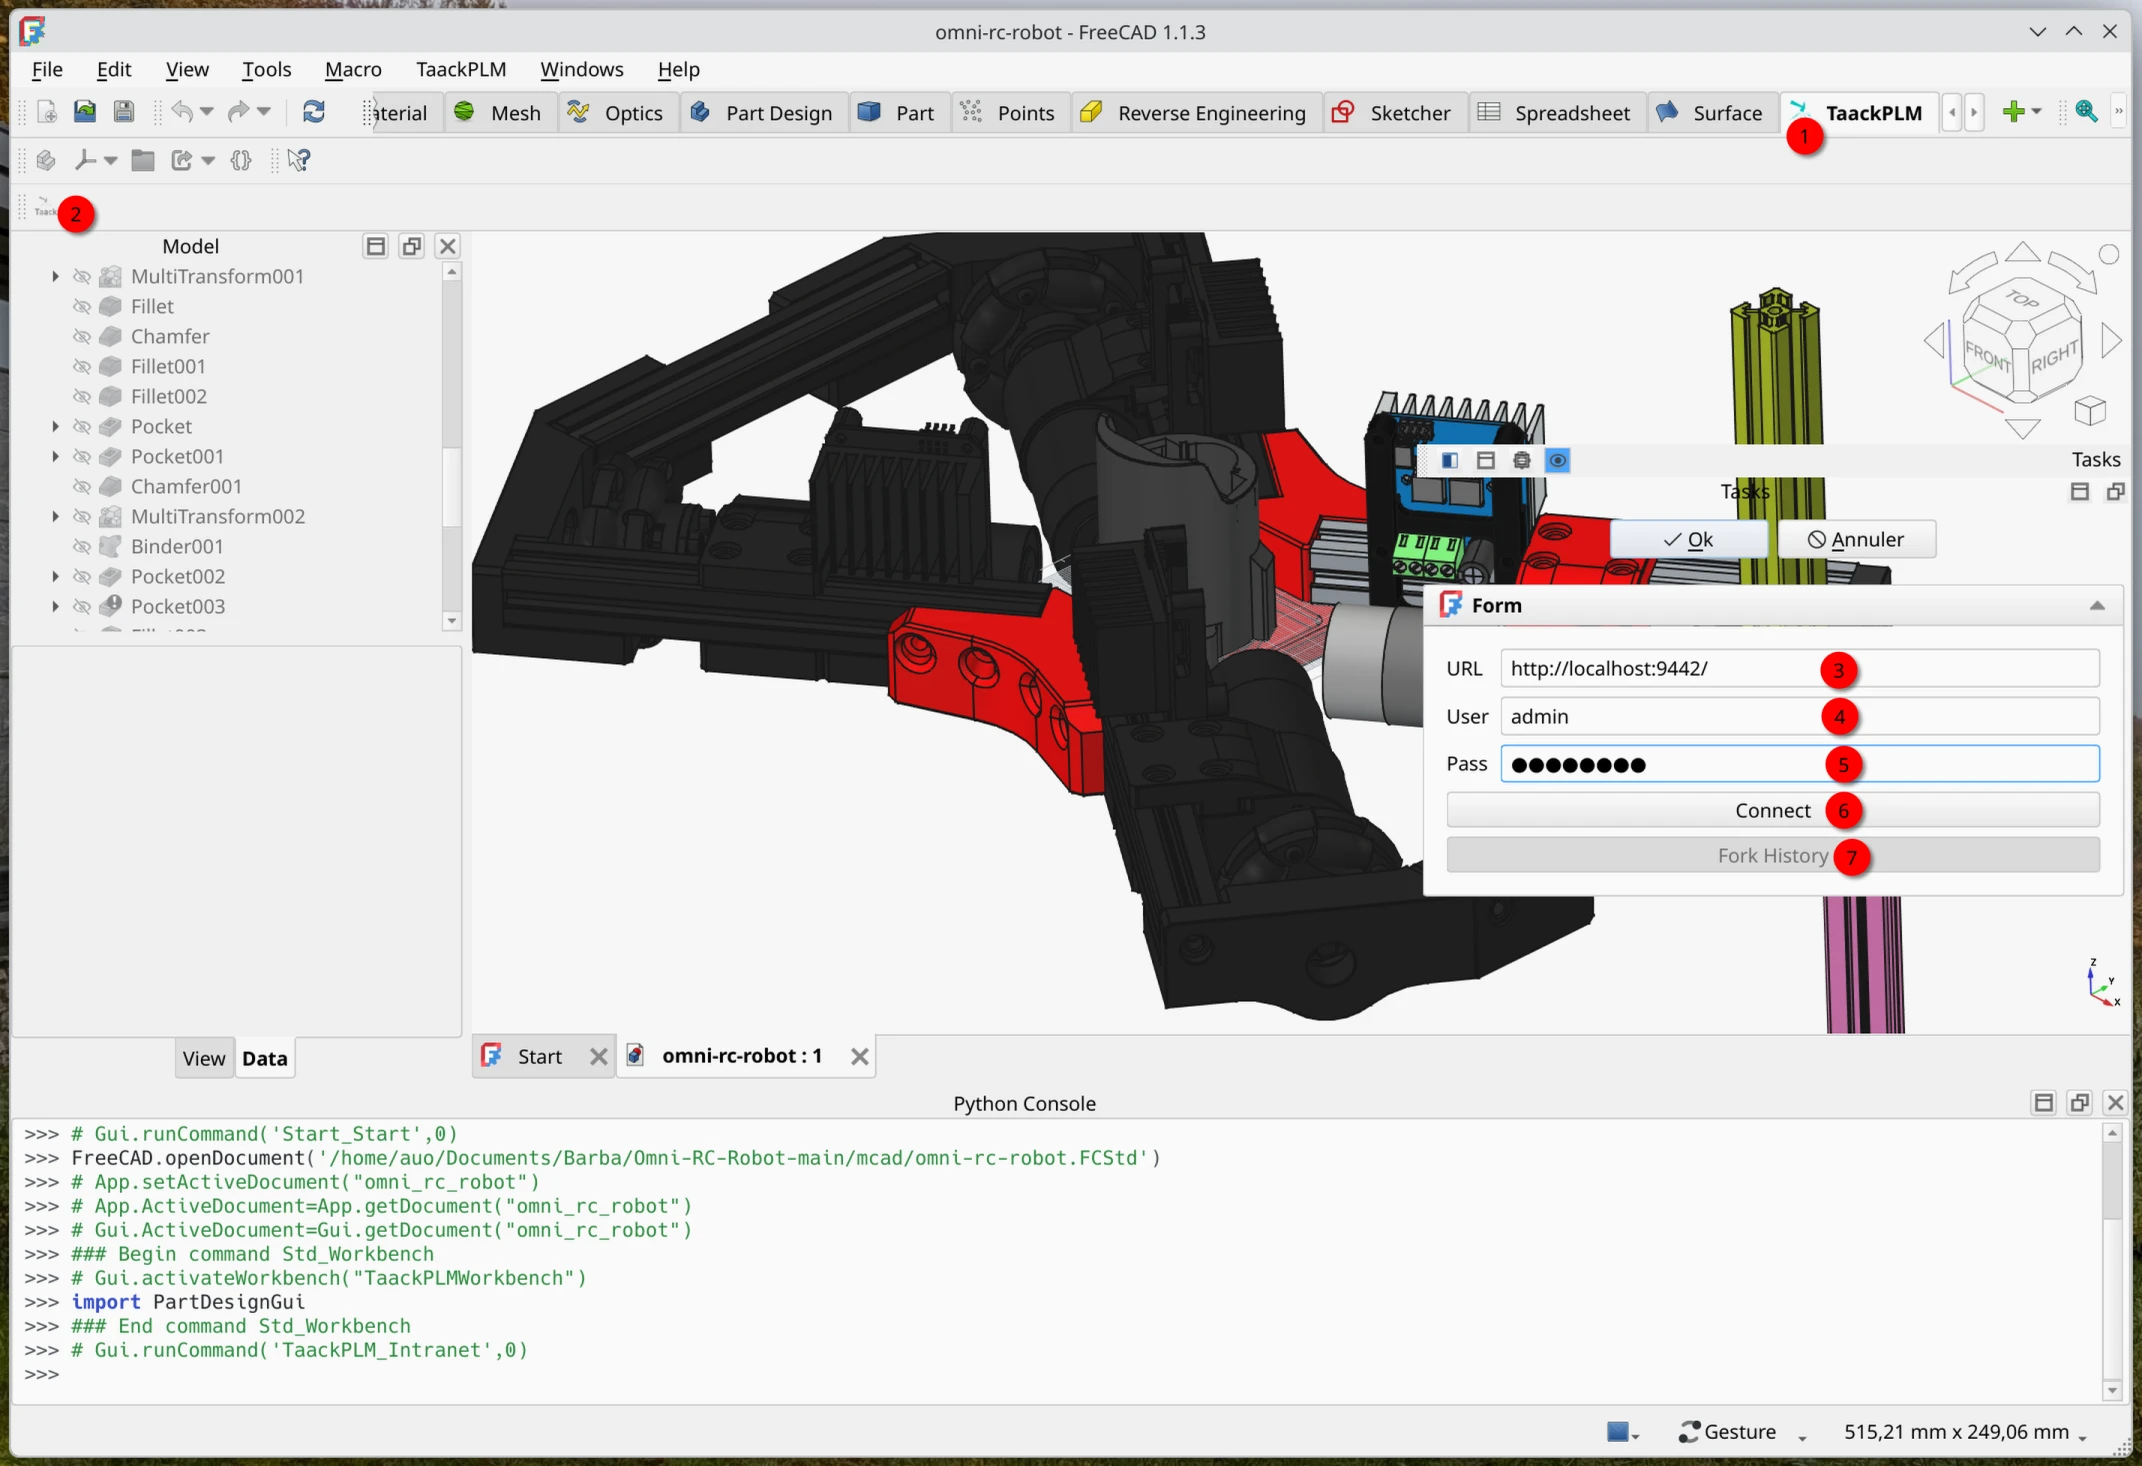
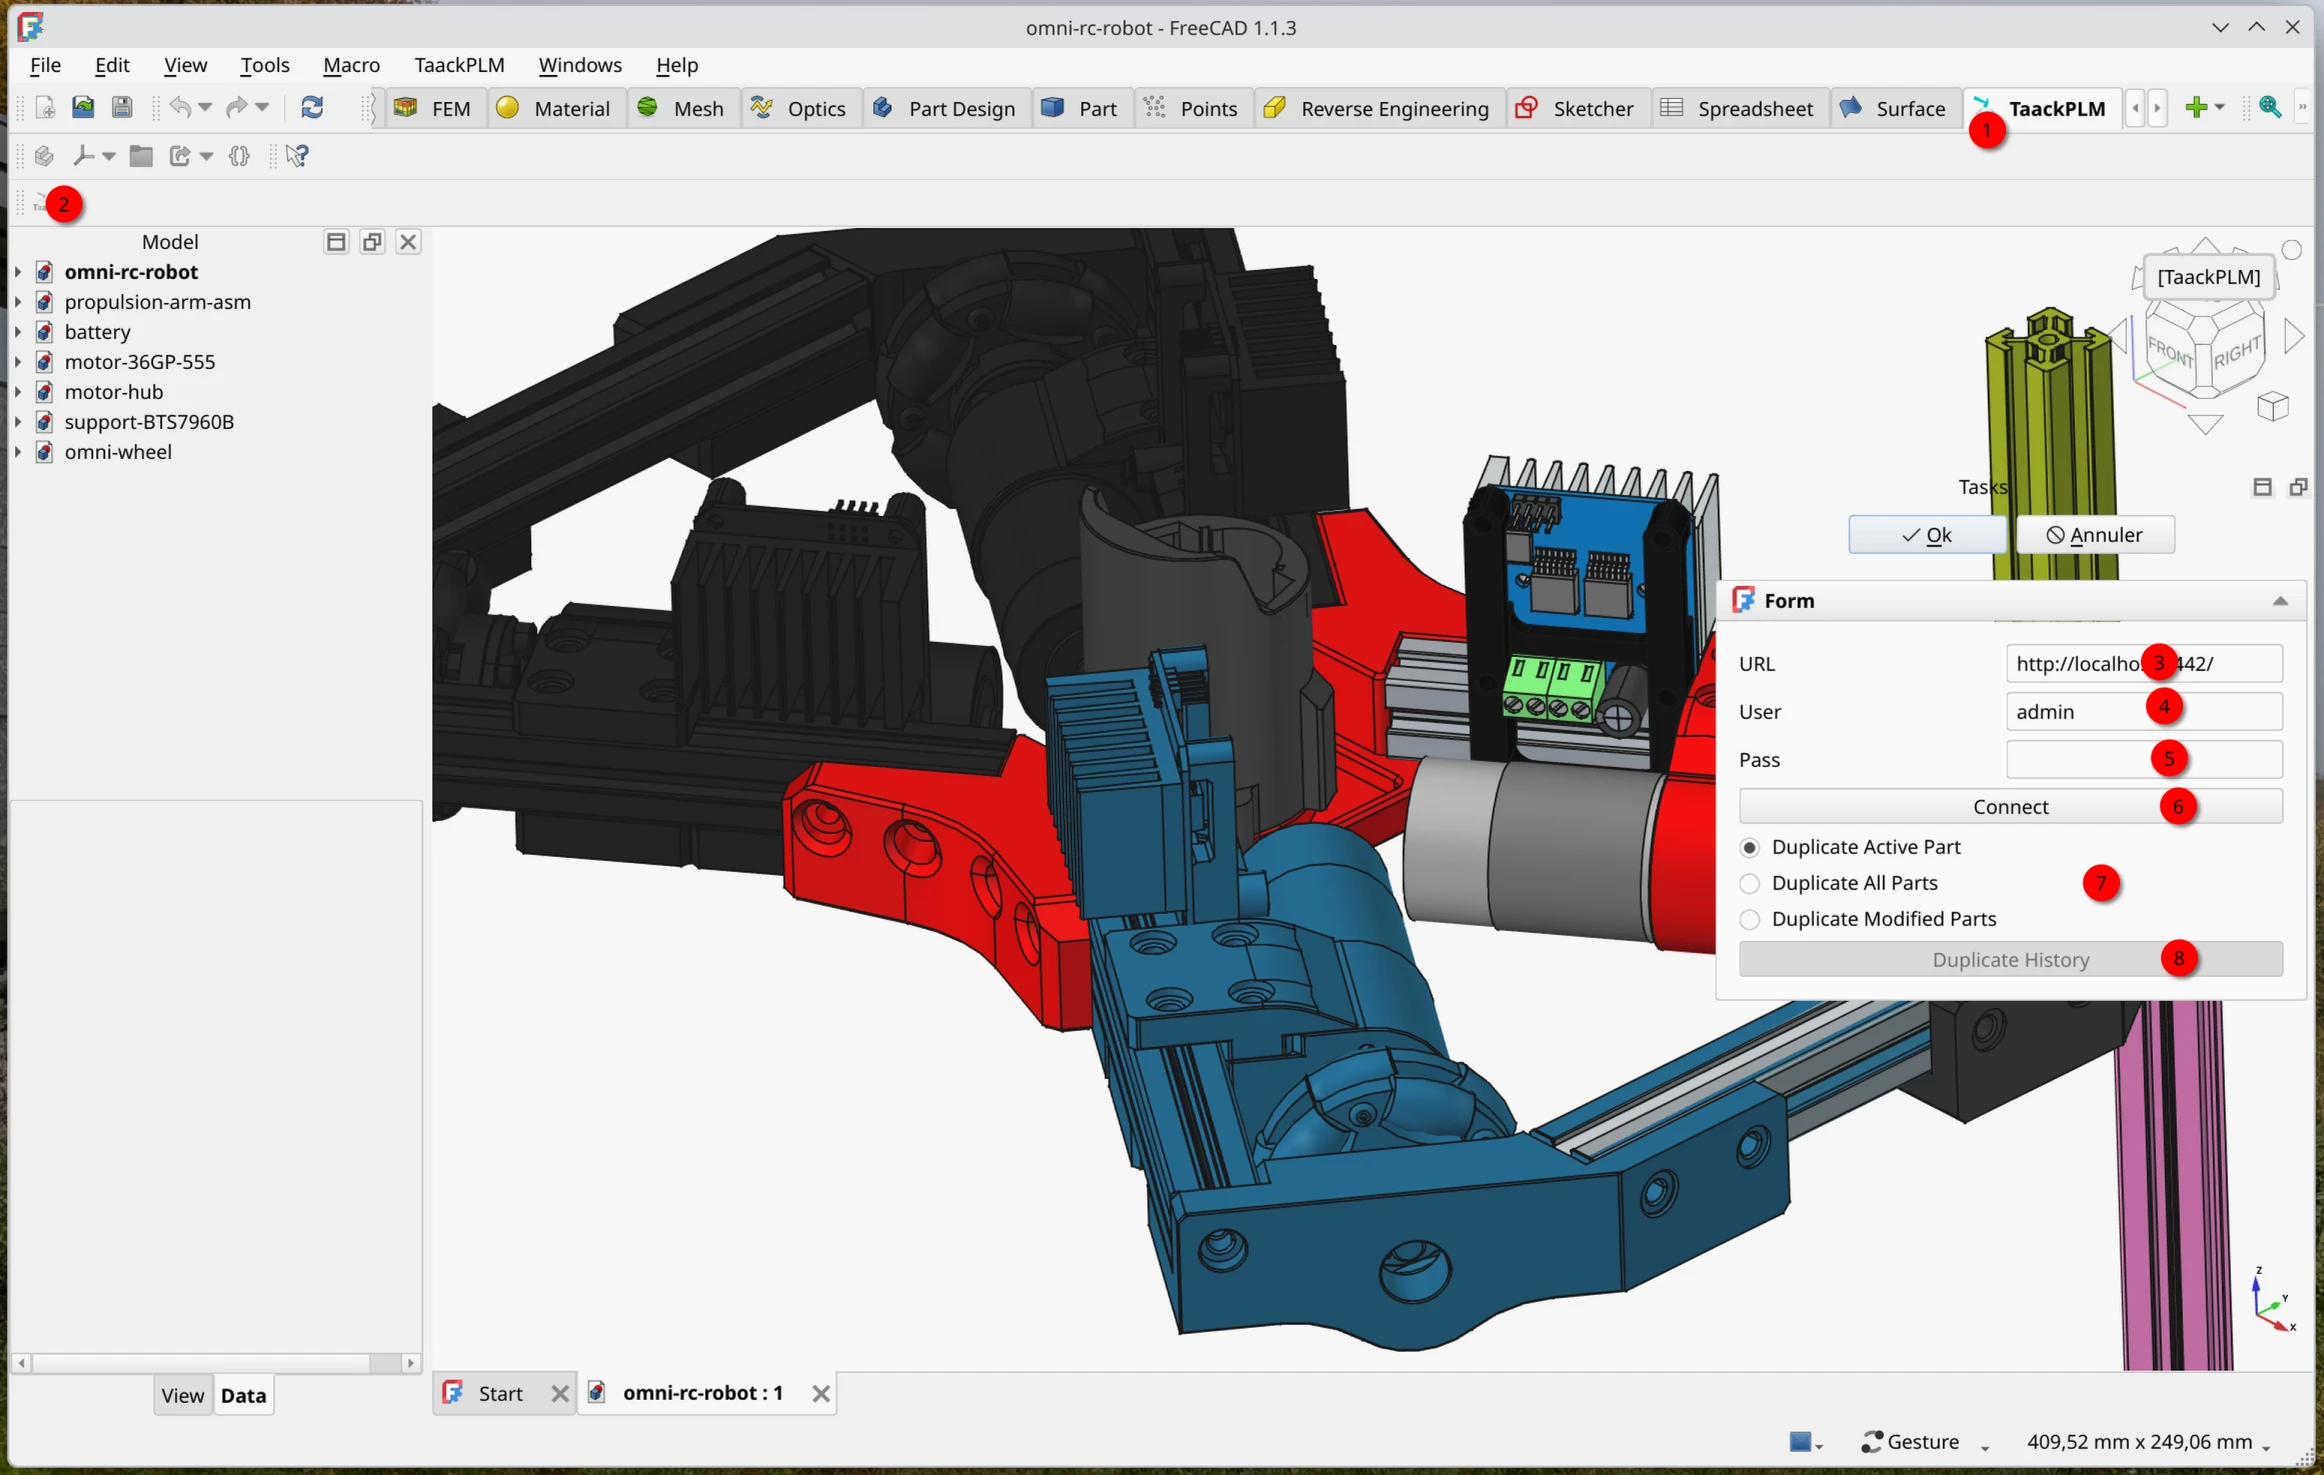
Update Readme, add duplicate tab in details view

diff --git a/README.md b/README.md
@@ -33,13 +33,32 @@ The first time, you will be prompted for entering the server URL, along with you
 4. User Login Input
 5. User Password Input
 6. Connect Button
-7. Fork History Button
+7. Duplicate History Options
+8. Duplicate History Button
 
 Clicking on **Connect** Button.
 
 If the **Connect** Button turns disabled, you are connected to your Intranet Server.
 
-You can duplicate part history in the server clicking on the **Fork History** button. Fork can be applied recursively to other forks.
+### Duplicate Options
+
+#### Duplicate Active Part
+
+Only the main part history will be duplicated. Dependencies will have only one history. Both, modifications on primary part and duplicated part will **modify dependency history**.
+
+#### Duplicate All Parts
+
+Main Parts and its dependencies will have a new history. Modifications on primary part and duplicated part will be independent
+
+#### Duplicate Modified Parts
+
+Main Parts and modified dependencies will have a new history.
+
+The part duplicated appear in details view:
+
+![Duplicated models](https://raw.githubusercontent.com/Taack/taack-plm-freecad/refs/heads/main/freecad-taack-plm-server-part-details-duplicated.webp)
+
+
 
 ### Upload a model and Links to other features from other files
 
@@ -96,12 +115,6 @@ Here you can either:
 4. Preview a precise version
 
 For more complex model, you can access linked files or links pointing to this model via Hierarchy tab.
-
----
-**NOTE**
-
-Fork only apply to the Active Part which will be duplicated into the server. It is not a deep fork. Modification on a dependency will increment this dependency history. If this is not what you want, fork sub-dependencies.
----
 
 That's it !
 
